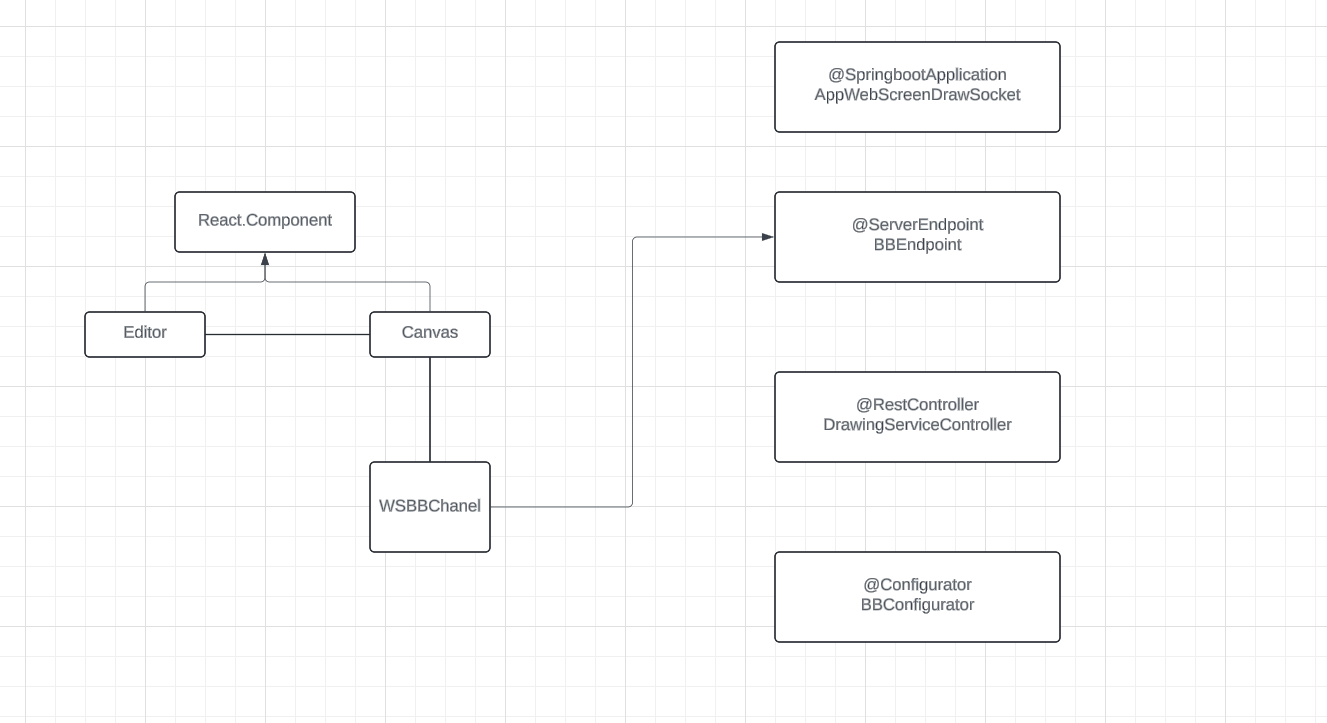
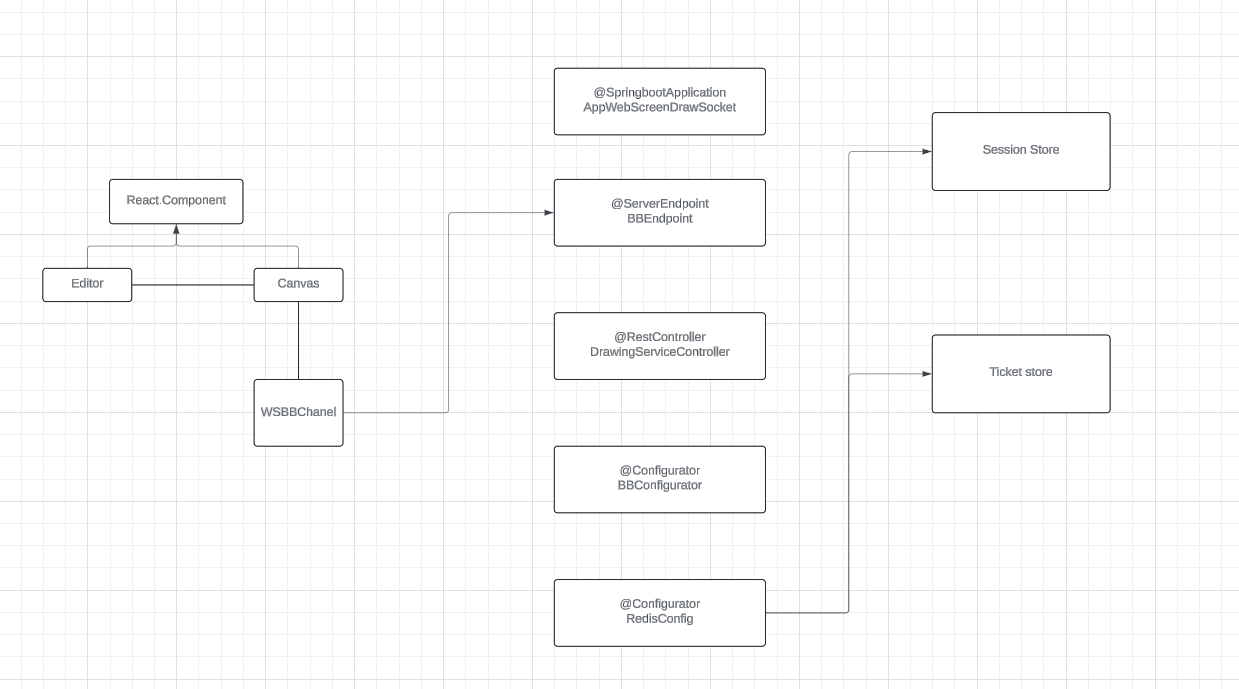
add readme update

diff --git a/src/test/java/ControllerRestTest.java b/src/test/java/ControllerRestTest.java
@@ -1,0 +1,28 @@
+import static org.junit.jupiter.api.Assertions.*;
+import static org.mockito.Mockito.*;
+
+import co.edu.ing.escuela.appWebSocket.ControllerRest;
+import co.edu.ing.escuela.appWebSocket.DrawingServiceController;
+import co.edu.ing.escuela.appWebSocket.TicketRepository;
+import org.junit.jupiter.api.BeforeEach;
+import org.junit.jupiter.api.Test;
+
+
+public class ControllerRestTest  {
+    private DrawingServiceController drawingServiceController;
+    private TicketRepository ticketRepository;
+    @BeforeEach
+    public void setUp() {
+        ticketRepository = mock(TicketRepository.class);
+        drawingServiceController = new DrawingServiceController();
+        drawingServiceController.ticketRepo = ticketRepository;
+    }
+
+
+    @Test
+    public void testStatus() {
+        String response = drawingServiceController.status();
+        assertTrue(response.contains("Greetings from Spring Boot"));
+    }
+}
+

diff --git a/src/test/java/DrawingServiceControllerTest.java b/src/test/java/DrawingServiceControllerTest.java
@@ -1,0 +1,30 @@
+
+import static org.junit.jupiter.api.Assertions.*;
+import static org.mockito.Mockito.*;
+
+import co.edu.ing.escuela.appWebSocket.*;
+import org.junit.jupiter.api.BeforeEach;
+import org.junit.jupiter.api.Test;
+
+
+public class DrawingServiceControllerTest  {
+
+    private ControllerRest drawingServiceController;
+    private TicketRepository ticketRepository;
+
+    @BeforeEach
+    public void setUp() {
+        ticketRepository = mock(TicketRepository.class);
+        drawingServiceController = new ControllerRest();
+        drawingServiceController.ticketRepo = ticketRepository;
+    }
+
+
+
+    @Test
+    public void testGetTicket() {
+        when(ticketRepository.getTicket()).thenReturn(123);
+        String response = drawingServiceController.getTicket();
+        assertEquals("{\"ticket\":\"123\"}", response);
+    }
+}

diff --git a/src/main/java/co/edu/ing/escuela/appWebSocket/DrawingServiceController.java b/src/main/java/co/edu/ing/escuela/appWebSocket/DrawingServiceController.java
@@ -5,6 +5,8 @@ import org.springframework.web.bind.annotation.RequestMethod;
 import org.springframework.web.bind.annotation.RestController;
 @RestController
 public class DrawingServiceController {
+    public TicketRepository ticketRepo;
+
     @RequestMapping(
             value = "/status",
             method = RequestMethod.GET,

diff --git a/src/main/java/co/edu/ing/escuela/appWebSocket/ControllerRest.java b/src/main/java/co/edu/ing/escuela/appWebSocket/ControllerRest.java
@@ -8,7 +8,7 @@ import org.springframework.web.bind.annotation.RestController;
 @RestController
 public class ControllerRest {
     @Autowired
-    TicketRepository ticketRepo;
+    public TicketRepository ticketRepo;
 
     @GetMapping("/getticket")
     public String getTicket() {

diff --git a/README.md b/README.md
@@ -1,5 +1,5 @@
 # Client Concurrent
-This for multi user.
+This is a board interactive drawing allow multiple users in concurrent and real time.  
 [Repository in GitHub here](https://github.com/JffMv/webSocket-ScreenDraw)
 
 ## Getting Started
@@ -22,13 +22,12 @@ git 2.44
 java
 [Install Java](https://www.oracle.com/co/java/technologies/downloads/)
 
+docker
+[Install Docker](https://www.docker.com/products/docker-desktop/)
 
-## Running the tests
 
-This classes haven´t unit test
 
 ## Deployment
-
 
 The process were building project maven with the command:
 
@@ -59,6 +58,19 @@ For generate documentation update the pom.xml add and later use "mvn package":
     </plugins>
 </reporting>
 ```
+
+## Docker - Redis
+Open of docker desktop and the run in terminal:
+
+Verify installation:
+ ```
+    docker --version
+```
+Run Redis with docker
+```
+docker run --name some-redis -p 45000:6379 -d redis
+```
+
 
 
 ## Architecture
